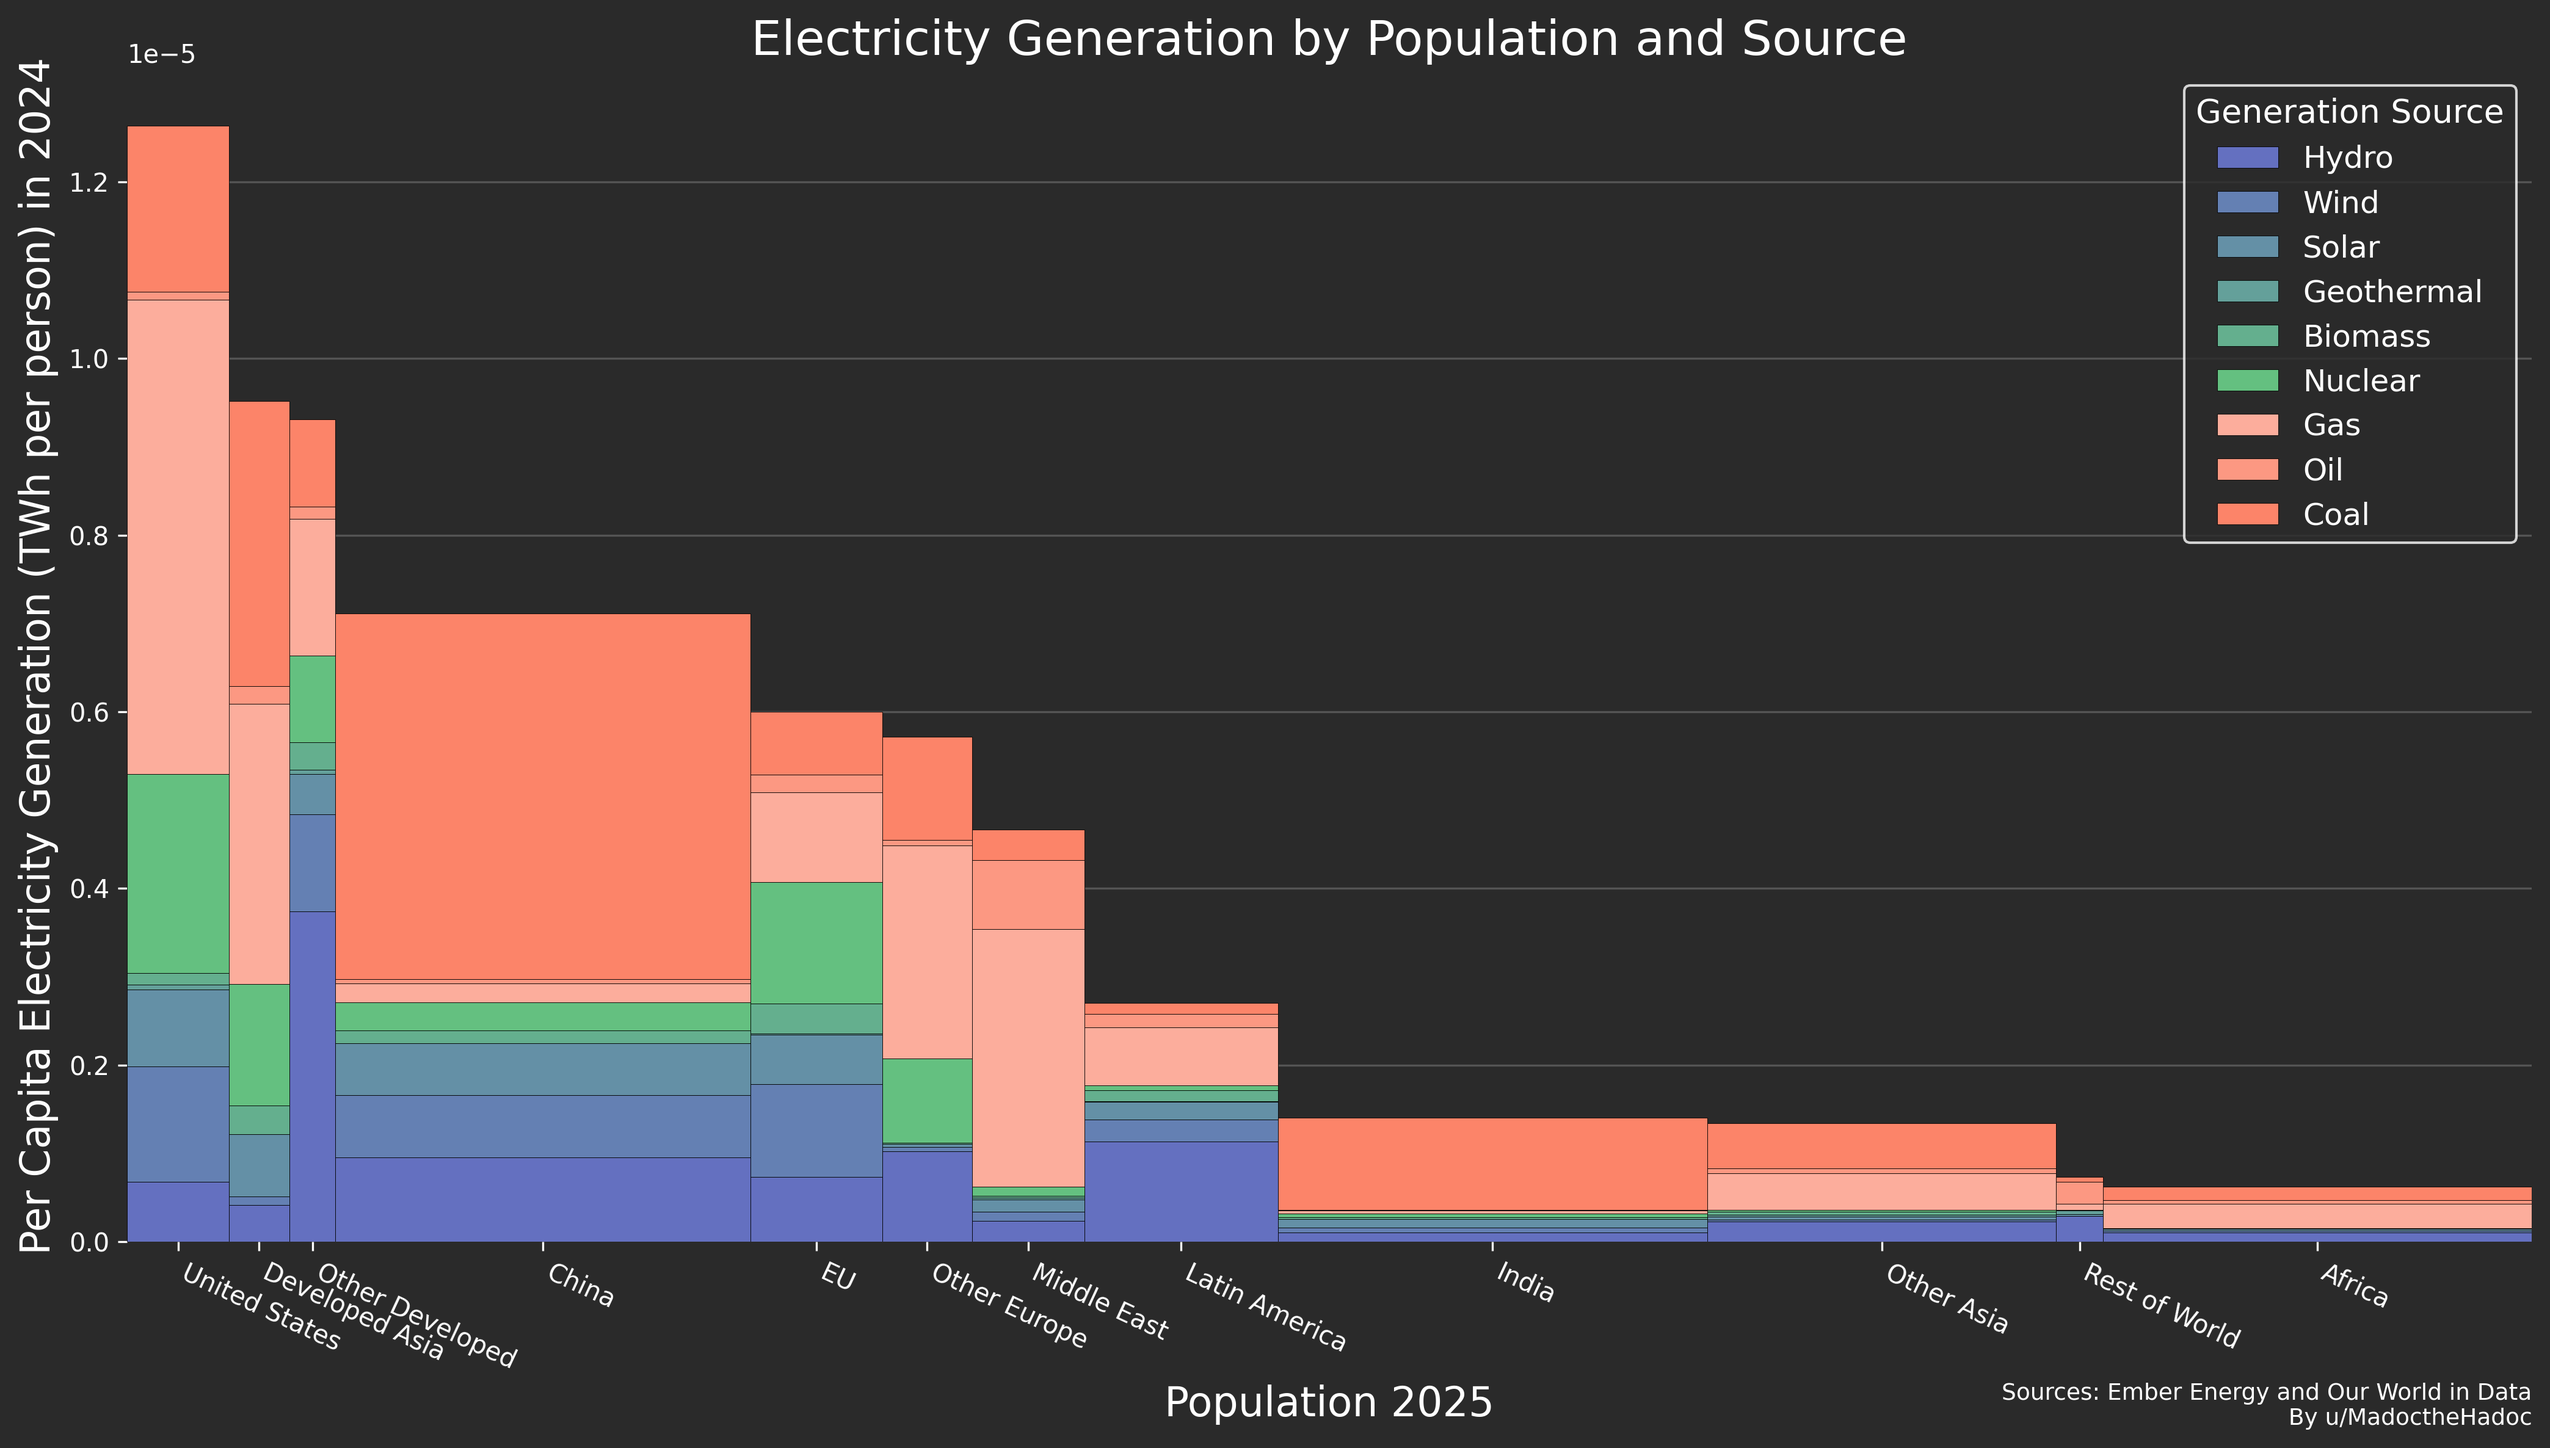
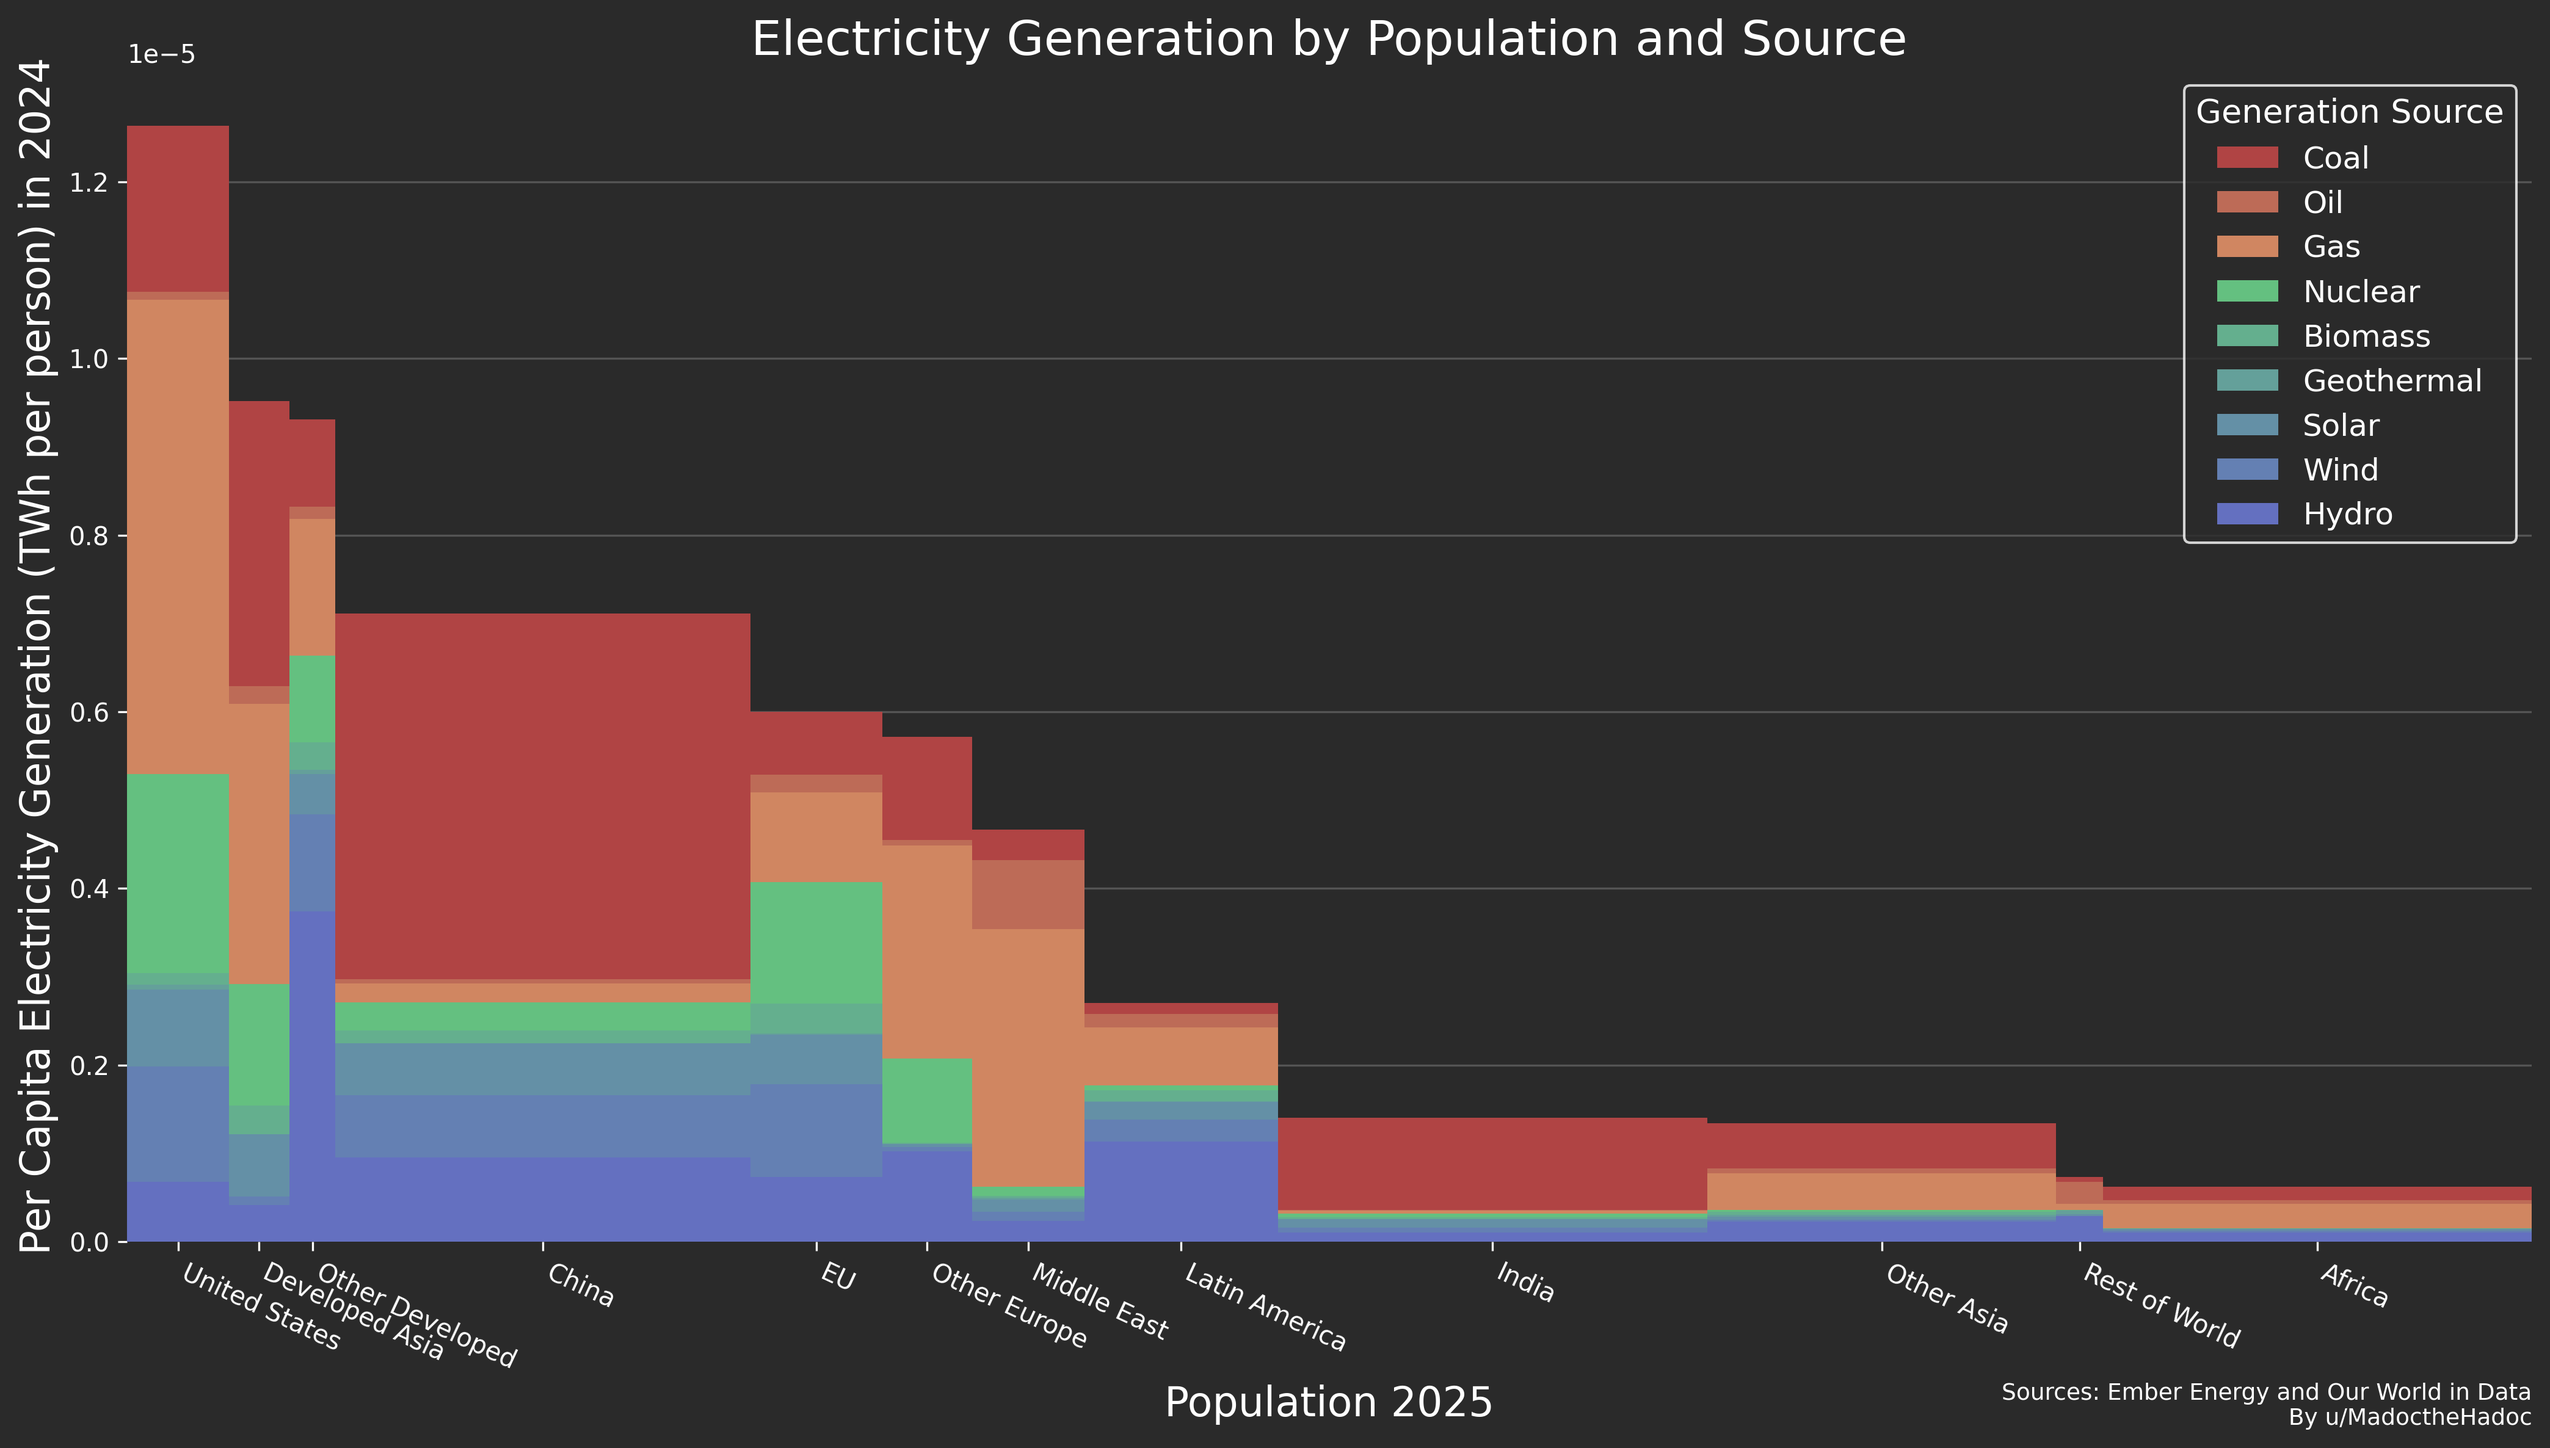
Minor visual changes

Changed region(s): [[0.0311, 0.0624, 0.9962, 0.8735], [0.8716, 0.2496, 0.965, 0.3744], [0.8716, 0.0936, 0.965, 0.2184]]

diff --git a/scripts/EnergyTransition.py b/scripts/EnergyTransition.py
@@ -242,9 +242,9 @@ pastel_colors = {
     'Geothermal':'#64a09a',
     'Biomass':   '#64af8e',
     'Nuclear':   '#64c080',
-    'Gas': '#fcad9c',
-    'Oil': '#fc9882',
-    'Coal': '#fc8469'
+    'Gas': "#d08661",
+    'Oil': "#bd6b57",
+    'Coal': "#b04444"
 }
 
 def plot_desktop():
@@ -262,7 +262,7 @@ def plot_desktop():
         ax.bar(left_positions, df_final[col],
                width=df_final['Width'], bottom=bottom,
                label=col, color=pastel_colors[col], align='edge',
-               edgecolor='black', linewidth=0.2)
+               edgecolor='black', linewidth=0.0)
         bottom += df_final[col].values
 
     # Set x-axis labels below bars
@@ -288,7 +288,9 @@ def plot_desktop():
     ax.set_xlim(left=0, right=total_width)
 
     # Legend with dark background and white text
+    handles, labels = ax.get_legend_handles_labels()
     legend = ax.legend(
+        handles[::-1], labels[::-1],  # reversed order
         title="Generation Source",
         loc='upper right',
         facecolor='#2a2a2a',
@@ -328,7 +330,7 @@ def plot_mobile():
     }
     df_final['Location'] = df_final['Location'].replace(abbreviations)
     # Plot with portrait layout for mobile
-    fig, ax = plt.subplots(figsize=(10, 12))  # Taller aspect ratio
+    fig, ax = plt.subplots(figsize=(12, 12))
     fig.patch.set_facecolor('#2a2a2a')  # Dark background
     ax.set_facecolor('#2a2a2a')
 
@@ -341,7 +343,7 @@ def plot_mobile():
         ax.bar(left_positions, df_final[col],
                width=df_final['Width'], bottom=bottom,
                label=col, color=pastel_colors[col], align='edge',
-               edgecolor='black', linewidth=0.2)
+               edgecolor='black', linewidth=0.0)
         bottom += df_final[col].values
 
     # Set x-axis labels below bars
@@ -371,7 +373,9 @@ def plot_mobile():
     ax.set_xlim(left=0, right=total_width)
 
     # Legend with larger font and dark background
+    handles, labels = ax.get_legend_handles_labels()
     legend = ax.legend(
+        handles[::-1], labels[::-1],  # reversed order
         title="Generation Source",
         loc='upper right',
         facecolor='#2a2a2a',
@@ -402,5 +406,5 @@ def plot_mobile():
     plt.savefig("mobile_chart.png", dpi=300, bbox_inches='tight')
     plt.show()
 
+# plot_desktop()
 plot_mobile()
-
